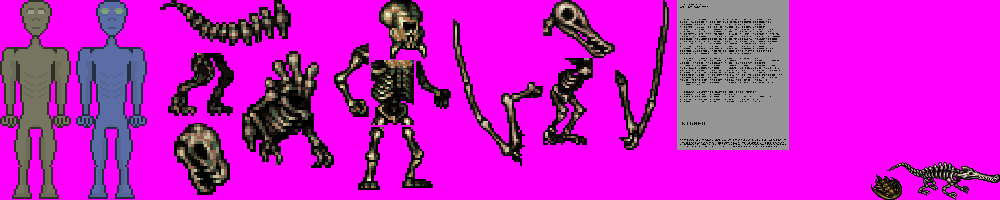
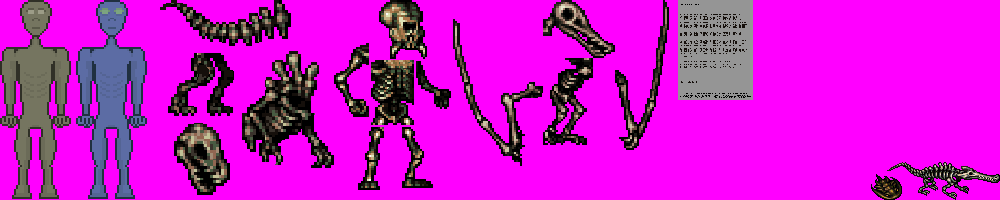
make document part image smaller

Changed region(s): [[0.651, 0.0, 0.806, 0.75]]

diff --git a/src/view.py b/src/view.py
@@ -50,13 +50,13 @@ PARTS_RECT = {
     'ptreodactyl right wing': (453,19,90,147),
     'ptreodactyl left wing': (615,0,54,150),
     
-    'tax returns': (677,0,112,150),
-    'shopping list': (677,0,112,150),
-    'todo list': (677,0,112,150),
-    'ludum dare comments': (677,0,112,150),
-    'bank accounts': (677,0,112,150),
-    'website passwords': (677,0,112,150),
-    'IP address scamlist': (677,0,112,150),
+    'tax returns': (677,0,75,100),
+    'shopping list': (677,0,75,100),
+    'todo list': (677,0,75,100),
+    'ludum dare comments': (677,0,75,100),
+    'bank accounts': (677,0,75,100),
+    'website passwords': (677,0,75,100),
+    'IP address scamlist': (677,0,75,100),
     
 }
 
@@ -755,7 +755,7 @@ class View(object):
     def scroll_brief(self, offset):
         if self.model.state == STATE_BUILD:
             self.brief_offset += offset
-            max_size = self.brief_sprite.rect.height * 2
+            max_size = self.brief_sprite.rect.height * 6
             if self.brief_offset > max_size:
                 self.brief_offset = max_size
             if self.brief_offset < 0:
